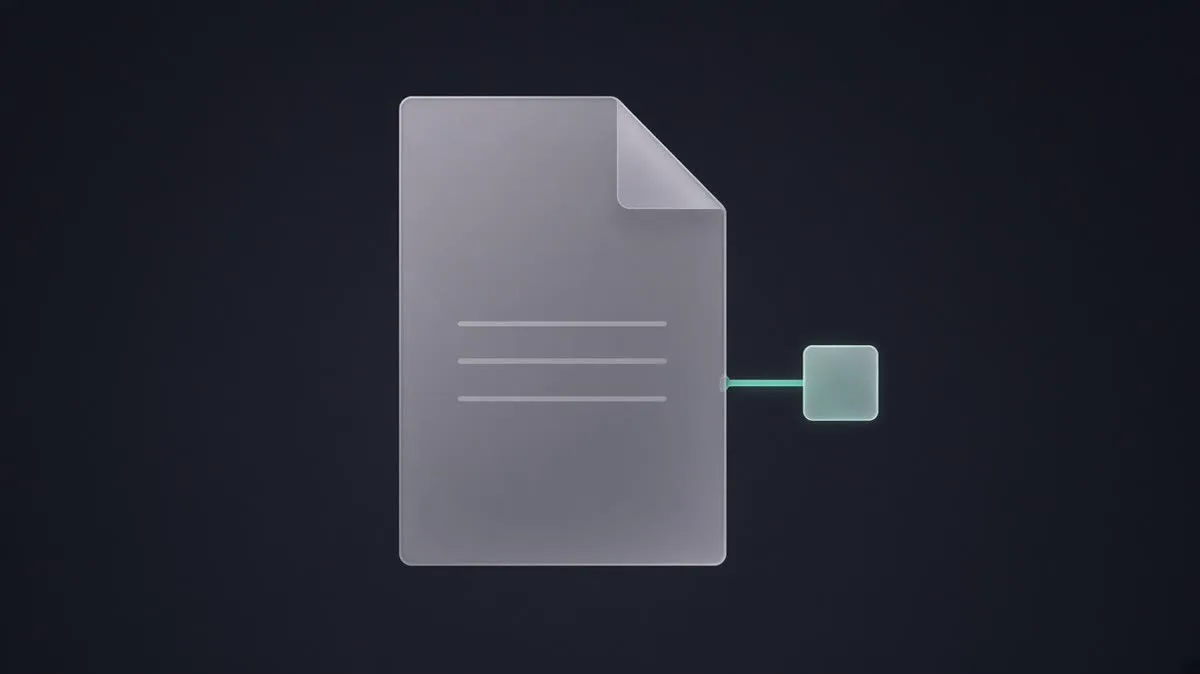
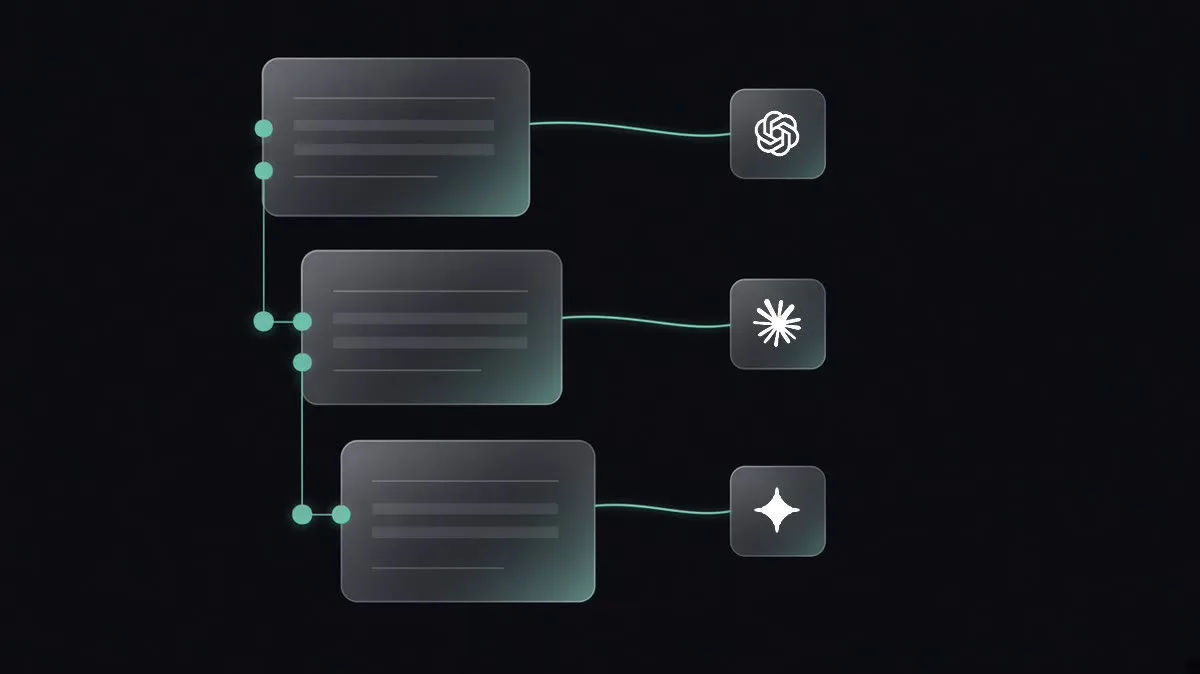
Refresh SDD cover with spec stack and major AI marks.
Replace the document metaphor with Spec-driven Development cards and
compose official OpenAI, Claude, and Gemini glyphs as satellite nodes.

diff --git a/specs/004-images.md b/specs/004-images.md
@@ -58,7 +58,7 @@ Capas compartilham uma **família** minimalista — não um template único. Fun
    - sequência / migração → trilha, arco, antes→depois;
    - monorepo / fronteiras → hub + pacotes, anéis de limite;
    - aceleração → trajetória diagonal, nó à frente;
-   - decisão escrita → painel/documento como âncora, satélite perto;
+   - spec-driven / decisão escrita → pilha de specs (convenção, decisão, aceite) com IAs satélite perto;
    - mentoria → de contorno guiado a nó autônomo;
    - design system / breaking → grade de peças, uma com fissura vs evolução;
    - escolha técnica (ex.: Context vs Query) → bifuração ou um caminho aceso e outros apagados.

diff --git a/content/posts/a-ia-fica-perto-quando-a-decisao-esta-escrita.md b/content/posts/a-ia-fica-perto-quando-a-decisao-esta-escrita.md
@@ -8,7 +8,7 @@ lang: pt-BR
 date: '2026-10-22'
 ---
 
-![Capa: painel de decisão escrita ao centro e um nó satélite perto, ligado por um fio curto.](/imgs/posts/a-ia-fica-perto-quando-a-decisao-esta-escrita.webp)
+![Capa: pilha de specs de Spec-driven Development ligada a nós com as marcas oficiais de OpenAI, Claude e Gemini.](/imgs/posts/a-ia-fica-perto-quando-a-decisao-esta-escrita.webp)
 
 No [Raise Clubs](https://raiseclubs.com) eu tenho testado uma pergunta que vale para qualquer front-end com IA: como o modelo evolui o produto e ainda entrega o front-end que eu espero.
 
